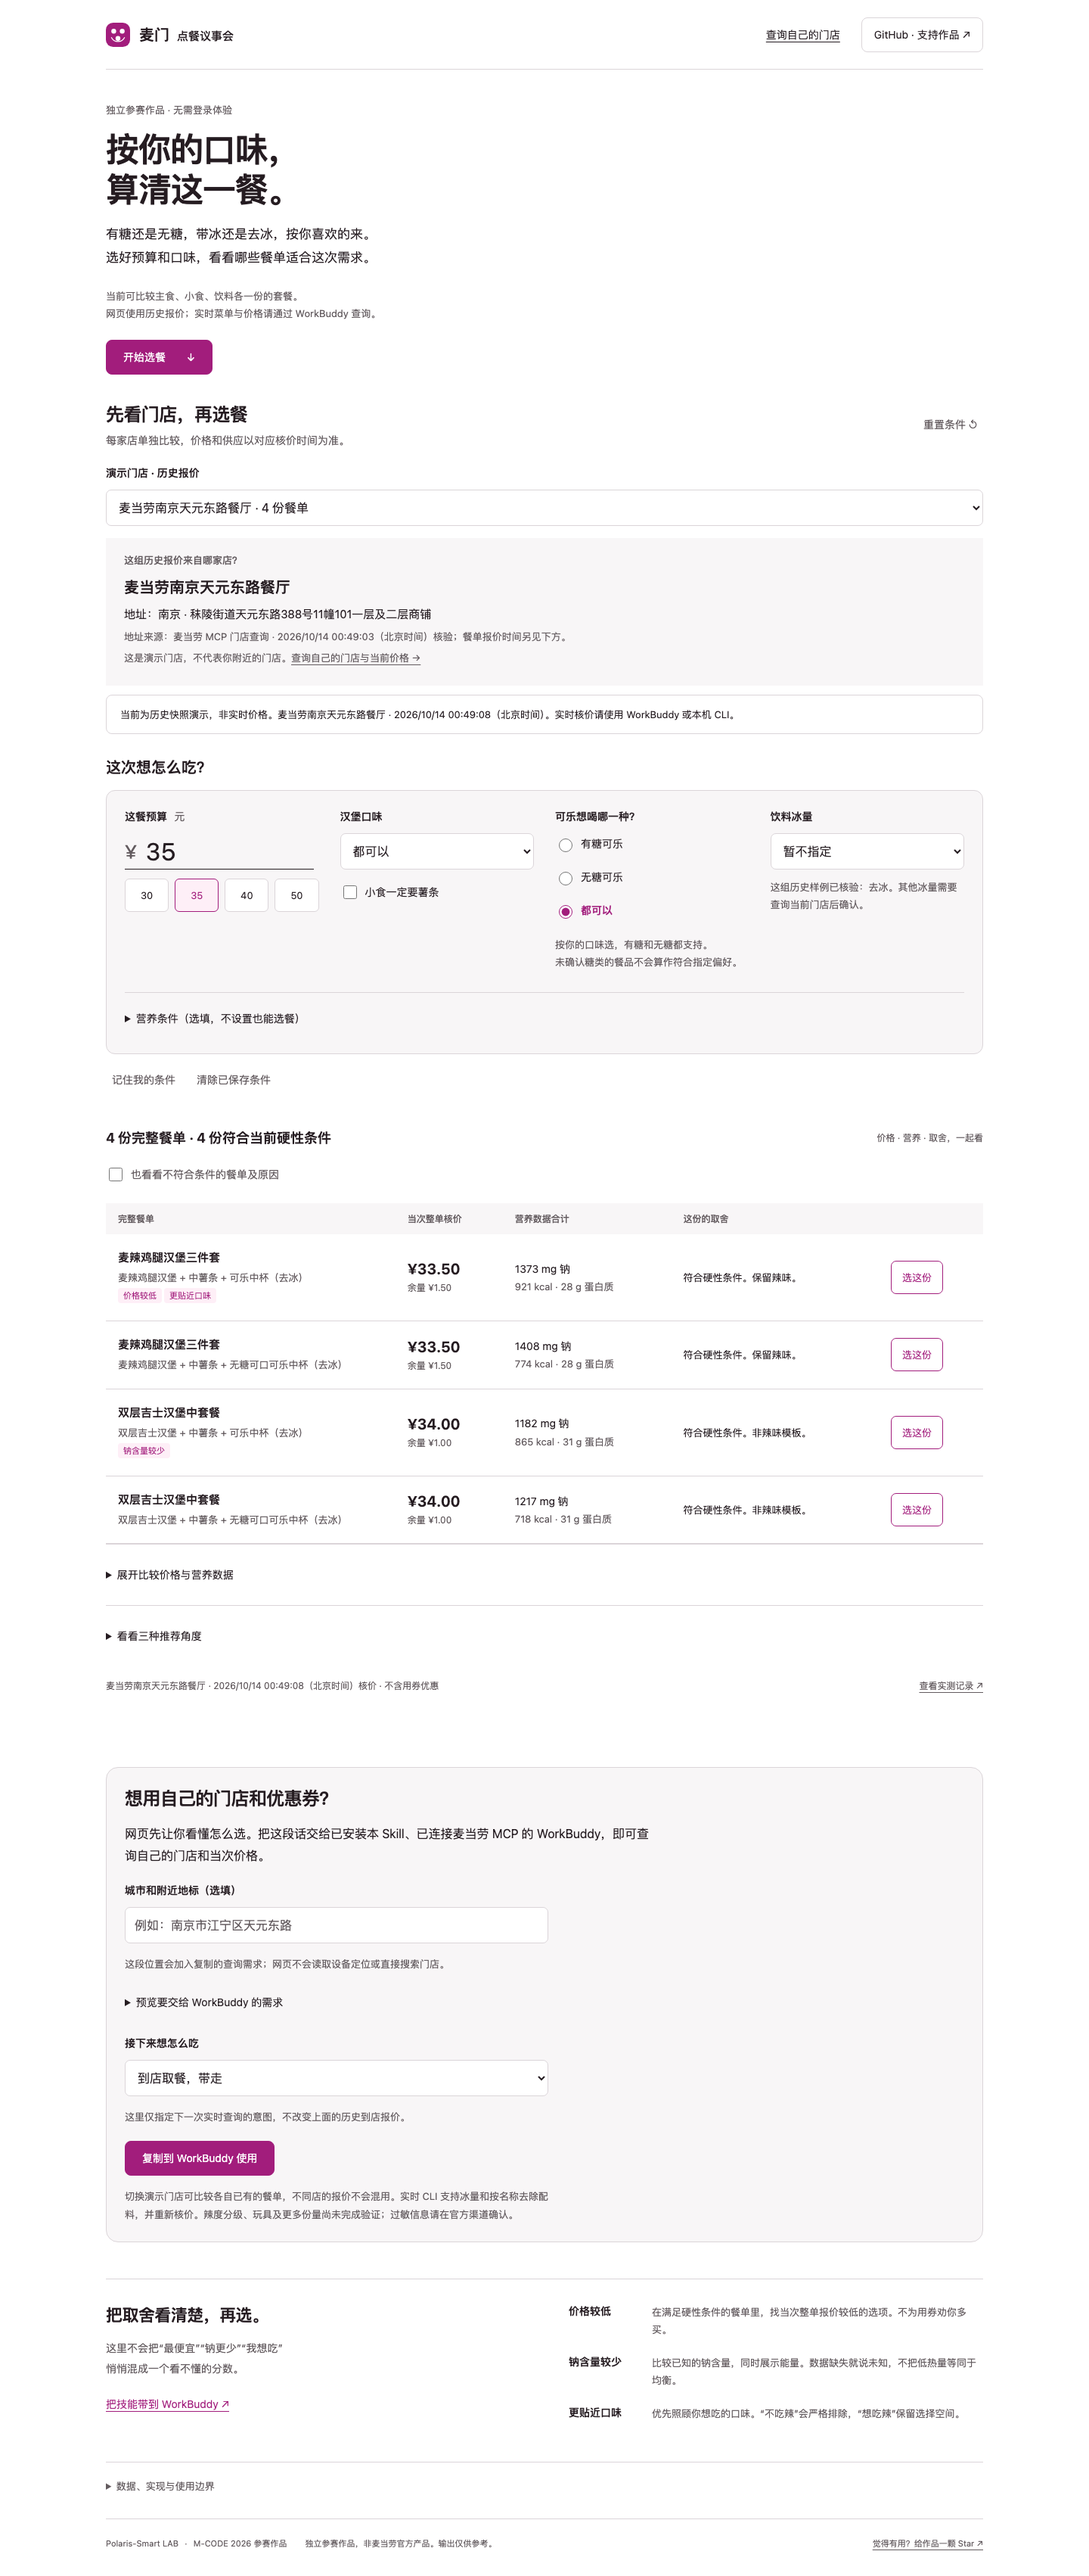
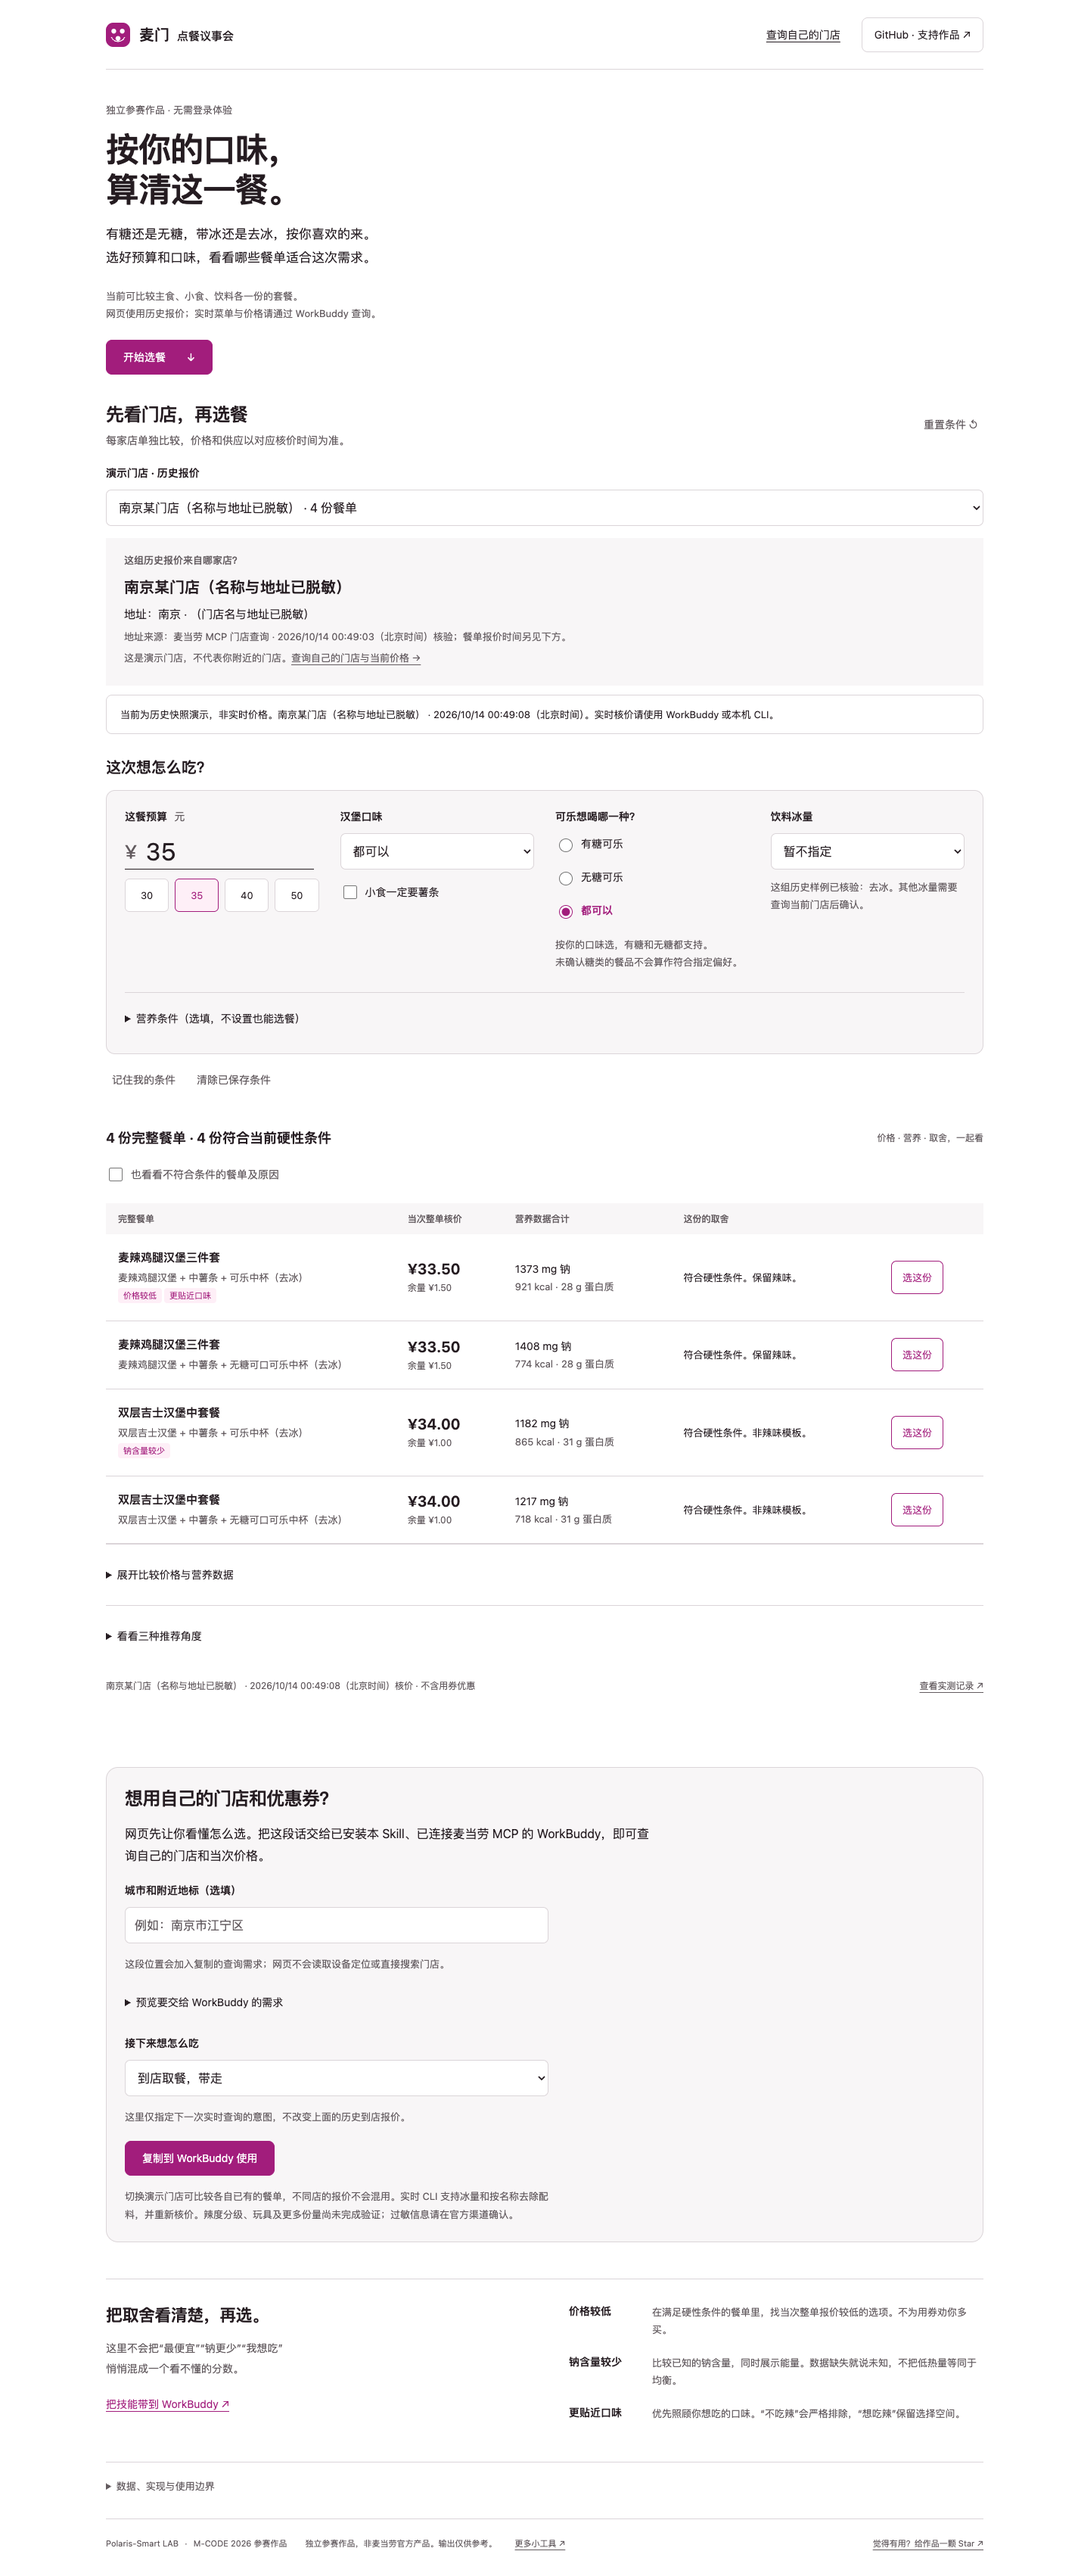
脱敏：移除样例门店的名称与官方地址（该门店位于作者住所附近）
问题：三组公开样例中的一组，其门店就在作者住所旁边。公开门店名或官方返回地址
等于公开个人住址——该地址已出现在 data.js、fixtures、文档、测试断言与全部截图中。

改动：
- fixtures/tianyuan-snapshot.json -> fixtures/store-a-snapshot.json，
  门店 code/name/address 与其 plans[].store_code 全部脱敏
- docs/data.js 由 build_demo.py 重新构建
- README / hardcoding-audit / validation / evidence results.json 同步改写
- tests/ui-dom.cjs 门店名断言、tests/test_user_flows.py 门店编码同步更新
- hero/results/social 与 evidence 三张截图，用脱敏后页面在同一视口重采集

只脱敏门店标识；餐单、价格、营养与核价时间逐字段未改。

diff --git a/docs/data.js b/docs/data.js
@@ -5,12 +5,12 @@ window.GOURMET_SNAPSHOTS = [
       "channel": "pickup"
     },
     "store": {
-      "code": "1990133",
-      "name": "麦当劳南京天元东路餐厅",
-      "address": "秣陵街道天元东路388号11幢101一层及二层商铺",
+      "code": "已脱敏",
+      "name": "南京某门店（名称与地址已脱敏）",
+      "address": "（门店名与地址已脱敏）",
       "city": "南京",
       "address_checked_at": "2026-10-13T16:49:03.901391+00:00",
-      "address_source": "McDonalds MCP query-nearby-stores"
+      "address_source": "（来源隐藏）"
     },
     "captured_at": "2026-10-13T16:49:08+00:00",
     "source": "麦当劳官方 MCP：calculate-price + list-nutrition-foods",
@@ -20,7 +20,7 @@ window.GOURMET_SNAPSHOTS = [
         "id": "9900005456-4810-3050",
         "name": "麦辣鸡腿汉堡三件套",
         "variant": "中薯条 · 可乐中杯",
-        "store_code": "1990133",
+        "store_code": "已脱敏",
         "items": [
           {
             "code": "1440",
@@ -89,7 +89,7 @@ window.GOURMET_SNAPSHOTS = [
         "id": "9900005456-4810-3071",
         "name": "麦辣鸡腿汉堡三件套",
         "variant": "中薯条 · 无糖可口可乐中杯",
-        "store_code": "1990133",
+        "store_code": "已脱敏",
         "items": [
           {
             "code": "1440",
@@ -158,7 +158,7 @@ window.GOURMET_SNAPSHOTS = [
         "id": "9900005464-4810-3050",
         "name": "双层吉士汉堡中套餐",
         "variant": "中薯条 · 可乐中杯",
-        "store_code": "1990133",
+        "store_code": "已脱敏",
         "items": [
           {
             "code": "1120",
@@ -227,7 +227,7 @@ window.GOURMET_SNAPSHOTS = [
         "id": "9900005464-4810-3071",
         "name": "双层吉士汉堡中套餐",
         "variant": "中薯条 · 无糖可口可乐中杯",
-        "store_code": "1990133",
+        "store_code": "已脱敏",
         "items": [
           {
             "code": "1120",

diff --git a/tests/test_user_flows.py b/tests/test_user_flows.py
@@ -59,27 +59,27 @@ class Preferences(unittest.TestCase):
 
     def test_live_store_without_meal_never_loads_demo_candidates(self):
         with patch('demo.Client') as client, redirect_stdout(io.StringIO()), redirect_stderr(io.StringIO()):
-            self.assertEqual(demo.main(['--live', '--store-code', '1990133']), 2)
+            self.assertEqual(demo.main(['--live', '--store-code', '9000001']), 2)
         client.assert_not_called()
 
     def test_switching_plan_store_requires_fresh_meal_selection(self):
         with patch('demo.Client') as client, redirect_stdout(io.StringIO()), redirect_stderr(io.StringIO()):
-            self.assertEqual(demo.main(['--live', '--plan', str(ROOT/'fixtures/plan.json'), '--store-code', '1990133']), 2)
+            self.assertEqual(demo.main(['--live', '--plan', str(ROOT/'fixtures/plan.json'), '--store-code', '9000001']), 2)
         client.assert_not_called()
 
     def test_menu_search_uses_only_requested_store(self):
         c=Mock();c.call.return_value={'meals':{'new-code':{'name':'当前餐品'}}}
         out=io.StringIO()
         with patch('demo.Client',return_value=c), redirect_stdout(out), redirect_stderr(io.StringIO()):
-            self.assertEqual(demo.main(['--list-meals', '--store-code', '1990133']), 0)
-        self.assertEqual(c.call.call_args.args, ('query-meals', {'storeCode':'1990133','beType':1,'orderType':1}))
+            self.assertEqual(demo.main(['--list-meals', '--store-code', '9000001']), 0)
+        self.assertEqual(c.call.call_args.args, ('query-meals', {'storeCode':'9000001','beType':1,'orderType':1}))
         self.assertEqual(json.loads(out.getvalue())['meals'], [{'code':'new-code','name':'当前餐品'}])
 
     def test_switching_delivery_store_never_keeps_old_business_code(self):
         plan=json.loads((ROOT/'fixtures/plan.json').read_text())
         plan['fulfillment']={'channel':'delivery','be_code':'old-store-pair'}
         with patch('demo.Path.read_text',return_value=json.dumps(plan)), patch('demo.Client') as client, redirect_stdout(io.StringIO()), redirect_stderr(io.StringIO()):
-            self.assertEqual(demo.main(['--live','--plan','unused.json','--store-code','1990133','--meal-code','123']),2)
+            self.assertEqual(demo.main(['--live','--plan','unused.json','--store-code','9000001','--meal-code','123']),2)
         client.assert_not_called()
 
 class LiveCombos(unittest.TestCase):

diff --git a/docs/validation.md b/docs/validation.md
@@ -1,5 +1,12 @@
 # 验证记录
 
+## 门店标识脱敏与验收重采集 · 2026-10-17
+
+- **背景。** 三组公开样例中的一组，其门店位于作者住所附近——公开门店名或官方返回地址，等于公开个人位置。该组的门店编码、名称、地址、检索关键词已在数据、文档、测试与全部截图里脱敏为「南京某门店（名称与地址已脱敏）」。
+- **只脱敏门店标识，不动数据。** `fixtures/store-a-snapshot.json`（原 `tianyuan-snapshot.json`）的餐单、价格、营养与核价时间逐字段未改；`plans[].store_code` 同步改为脱敏值，以满足「不能混用不同门店报价」的校验。
+- **已执行：三视口重采集。** 用脱敏后的 `docs/data.js` 在本地静态服务重跑 1440×900 / 390×844 / 320×700：均无横向溢出（`scrollWidth == clientWidth`），桌面端文档高度 3404，与 2026-10-14 记录一致。`evidence/visual-2026-10-14/` 下三张截图已替换为重采集版本，`docs/assets/{hero,results,social}.png` 同步重生成。
+- **范围。** 本次未改动 `gourmet/`、`demo.py`、`SKILL.md` 与页面交互逻辑；`tests/ui-dom.cjs` 中与门店名相关的断言已同步更新（该检查依赖外部 `jsdom`，不在 CI 流程内）。
+
 ## 网页视觉与交互验收·2026-10-14
 
 - **已执行：公开页面浏览器验收。** Pages 部署 `01bac997` 成功后，以隔离的 headless Google Chrome 打开 `https://polaris-smart.github.io/mcd-agent-gourmet/`，桌面 1440×900、手机视口 390×844、最窄 320×700 均返回 HTTP 200。完整截图分别见 [桌面](evidence/visual-2026-10-14/desktop.png)、[390px 手机视口](evidence/visual-2026-10-14/mobile.png)、[320px 最窄视口](evidence/visual-2026-10-14/narrow.png)；结构化结果见 [results.json](evidence/visual-2026-10-14/results.json)。三种视口均无页面 JavaScript 异常、无文档横向溢出；此次检查的可见按钮和主操作链接尺寸均不小于 44px。Tab 首项为“跳到餐单条件”链接。
@@ -17,7 +24,7 @@
 ## 0.3.1 券包增量验证 · 2026-10-14
 
 - **已执行：离线回归。** 91 项 Python 测试通过；新增 28 项覆盖截止时间不随查询改变、明确午夜、滚动时长标签、开窗前/窗内/最后一分钟、今天关窗但明天可用、工作日遇周末、多段空档、跨午夜、字段冲突、未知格式、官方 enable 分离、完整清单、标识脱敏、分页变化、渠道参数和 CLI 互斥。
-- **已执行：私有只读联调。** 使用用户授权的本机凭证，调用 `query-my-coupons` 和南京天元东路餐厅的 `query-store-coupons`。券包分页完整，返回时段均可解析，门店查询成功。仅记录执行状态，不保存凭证、券标识、余额或真实券包。
+- **已执行：私有只读联调。** 使用用户授权的本机凭证，调用 `query-my-coupons` 和住所附近门店（**门店名与地址已脱敏**）的 `query-store-coupons`。券包分页完整，返回时段均可解析，门店查询成功。仅记录执行状态，不保存凭证、券标识、余额或真实券包。
 - **边界。** 此次没有领券、兑换、下单，也没有执行用券核价；不能把查询成功写成折扣已兑现。配送参数使用契约测试验证，未做真实配送地址和优惠核价联调。
 - **构造演示。** `--coupon-demo` 使用明确标记的构造样例和固定参考时间，不是实时券包，也不是官方活动承诺。六张样例的 `enable` 均构造为 0，按官方输出 schema 意为“当前不可用”；临期分档只表达解析出的时间距离，不表示此刻可使用。
 - **未验证。** 本轮未完成 WorkBuddy 客户端端到端验收，未提交市场。支持范围外的文案/节假日例外仍标待核验；门店匹配不单独证明外带资格。网页界面本轮未改动，未新增浏览器验收结论。

diff --git a/docs/hardcoding-audit.md b/docs/hardcoding-audit.md
@@ -24,13 +24,12 @@
 | 历史 fixtures 中门店、价格、餐品 | 是带来源与时间的实测记录。实时路径不自动回退，不将换店解释成旧报价适用。 |
 | 营养按官方完整餐品名称匹配 | 改名或缺失会显示未知。尚无已验证的稳定营养编码映射，不能猜测匹配。 |
 
-## 天元东路真实核验
+## 真实门店核验（门店名与地址已脱敏）
 
-- 工具：`query-nearby-stores`，城市“南京”，关键词“天元东路”。
-- 门店编码：1990133；名称：麦当劳南京天元东路餐厅。
-- 官方返回地址：秣陵街道天元东路388号11幢101一层及二层商铺。
+- 工具：`query-nearby-stores`，城市“南京”。**关键词、门店编码、门店名称与官方返回地址均已脱敏**——该样例门店位于作者住所附近，公开门店名或地址等于公开个人位置。
+- 脱敏只作用于门店标识；**核价数据、菜单与营养数值未做任何修改**，逐份 `calculate-price` 的结果保持原样。
 - 当次菜单选择麦辣鸡腿汉堡三件套与双层吉士汉堡套餐，逐份 `calculate-price`；有糖/无糖可乐均为去冰，中薯条。
-- 2026-10-14 00:49:08（北京时间）结果：麦辣套餐 33.50 元，双层吉士套餐 34.00 元。完整公共记录在 `fixtures/tianyuan-snapshot.json`。价格是此次核价，不是永久价格。
+- 2026-10-14 00:49:08（北京时间）结果：麦辣套餐 33.50 元，双层吉士套餐 34.00 元。完整公共记录在 `fixtures/store-a-snapshot.json`。价格是此次核价，不是永久价格。
 
 ## 界面处理
 

diff --git a/README.md b/README.md
@@ -72,7 +72,7 @@
 - **没有合适餐单时**：只有预算阻碍时显示保持其他条件所需的最低候选预算；否则提示扩展候选或由用户调整条件，不自动放宽。
 - **少重复填写**：网页可主动点击“记住我的条件”，仅在当前浏览器保存，可随时清除。复制到 WorkBuddy 的文字会携带当前偏好和履约意图。
 
-网页收录的独立历史样例由 `fixtures/demo-snapshots.json` 管理，当前包括南京天元东路、洪武、东城汇餐厅。天元东路与洪武样例均包含实测“薯条＋有糖可乐”和“薯条＋无糖可乐”的去冰组合。各组独立标明门店、公开地址与核价时间，不跨店混比。网页不实时核价、不接受 Token。
+网页收录的独立历史样例由 `fixtures/demo-snapshots.json` 管理，当前包括三组南京门店样例；**其中一组的门店名与地址已脱敏**，因为该门店位于作者住所附近，公开它等于公开个人位置。其余两组均包含实测“薯条＋有糖可乐”和“薯条＋无糖可乐”的去冰组合。各组独立标明门店、公开地址与核价时间，不跨店混比；脱敏只作用于门店标识，核价与营养数据未做修改。网页不实时核价、不接受 Token。
 
 以下命令供开发者调试；日常使用可直接采用上面的 WorkBuddy 对话入口。
 
